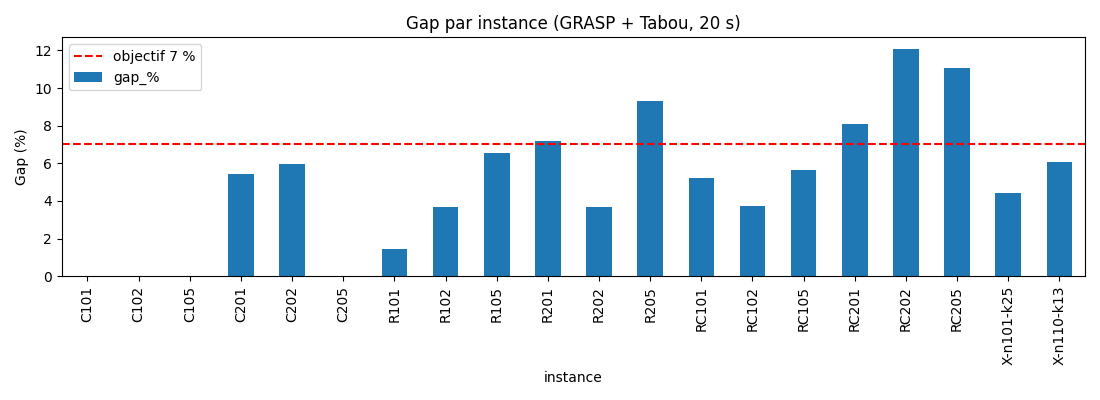
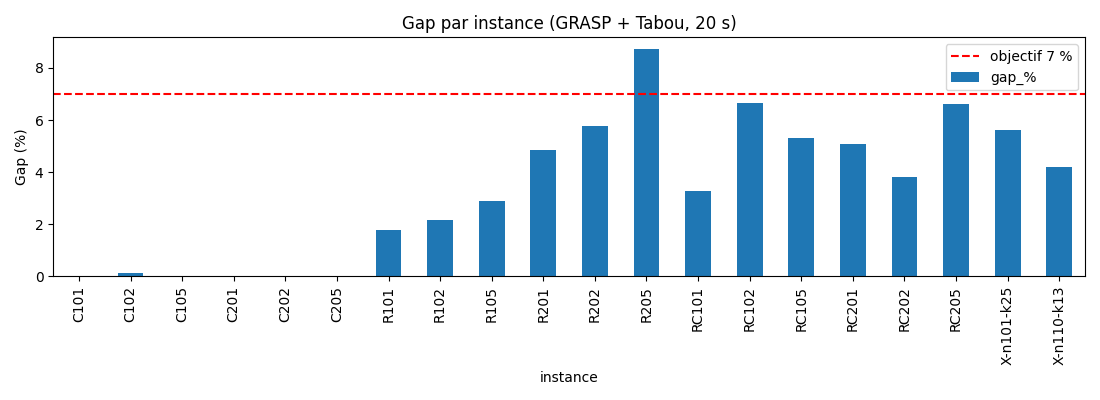
Réglage alpha = 0.1 : gap moyen 4.98 % -> 3.34 %

diff --git a/benchmark_vrplib.py b/benchmark_vrplib.py
@@ -76,7 +76,7 @@ def charger_vrplib(nom):
 # -----------------------------------------------------------------------------
 # 2. Lancer une instance et calculer le gap
 # -----------------------------------------------------------------------------
-def tester(nom, graine=0, temps_max=20, alpha=0.2, taille_tabou=10,
+def tester(nom, graine=0, temps_max=20, alpha=0.1, taille_tabou=10,
            iter_max=30, taille_echantillon=25):
     random.seed(graine)
     bks = charger_vrplib(nom)
